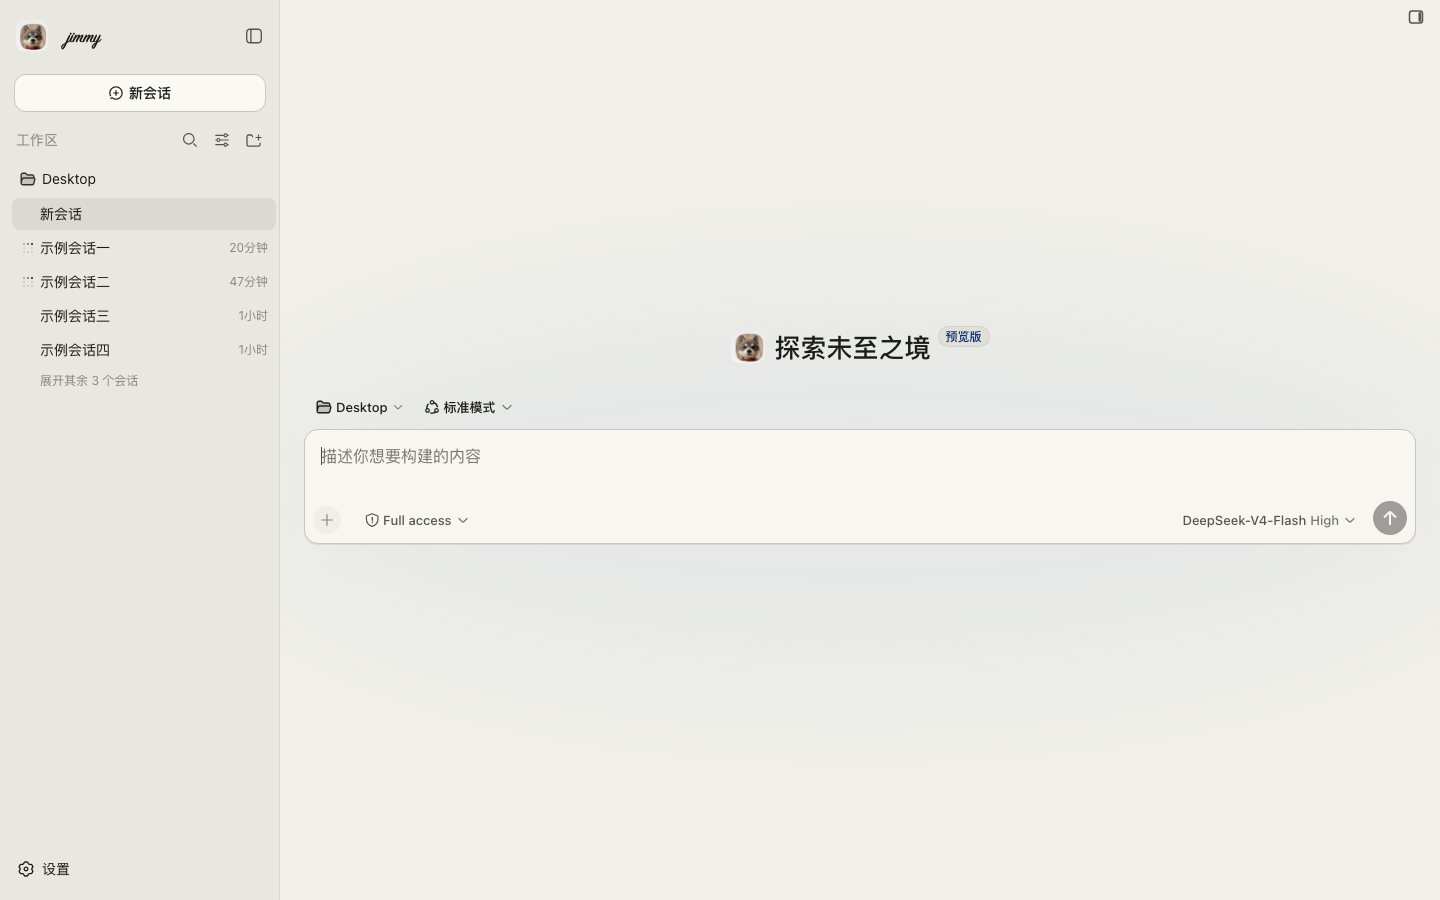
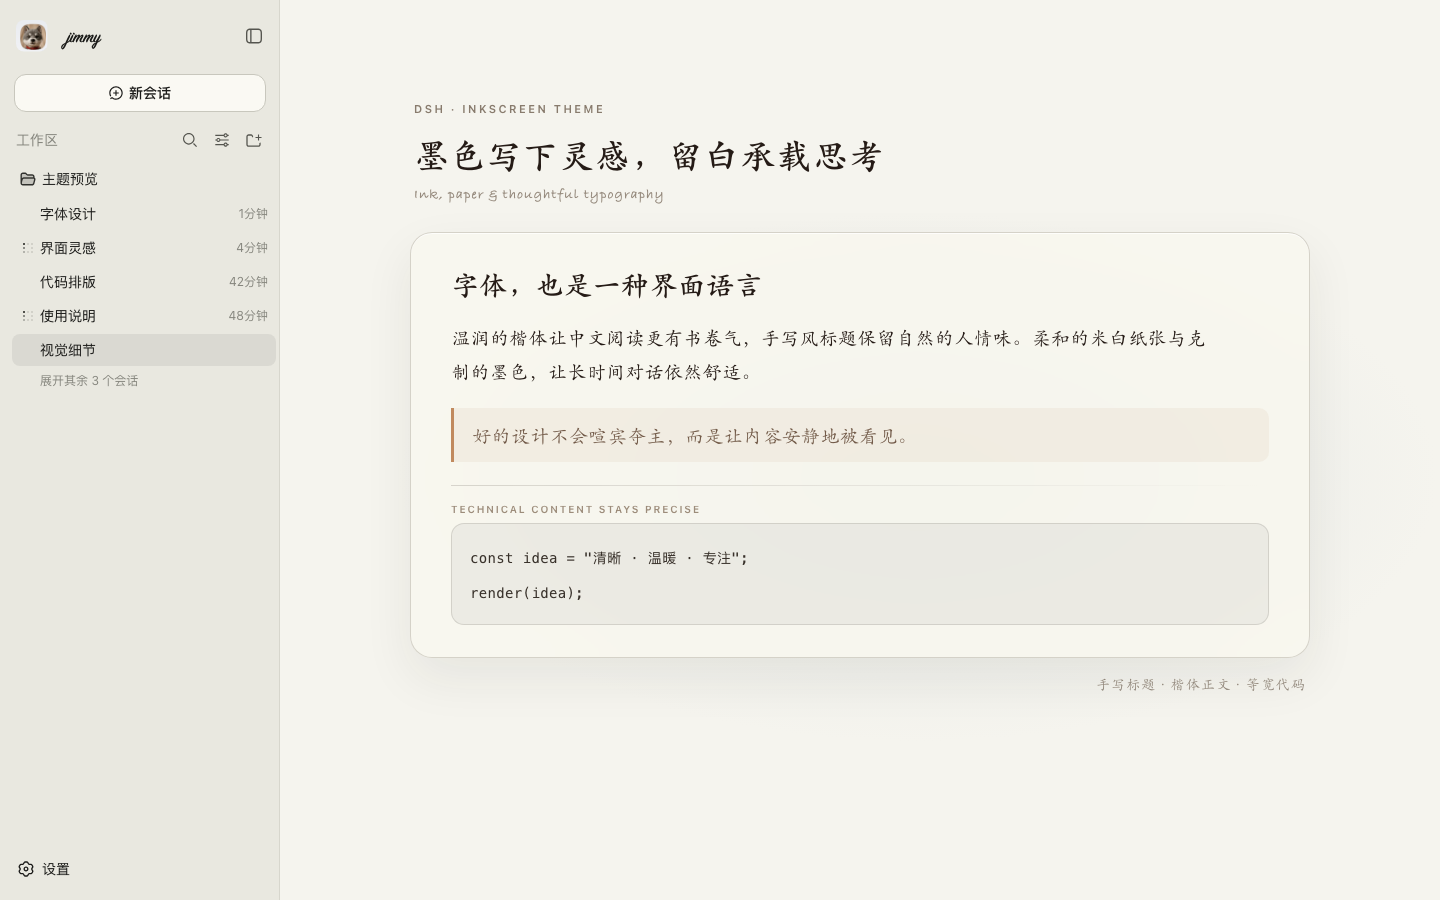
feat: showcase editorial typography

diff --git a/lib/client.js b/lib/client.js
@@ -85,6 +85,32 @@ textarea:focus, input:focus, select:focus {
   -webkit-backdrop-filter: blur(30px);
 }
 
+/* Editorial typography: readable Chinese Kai body text with a handwritten
+   character, while technical content stays crisp and monospaced. */
+[data-chat-flow-kind="assistant-step"] .Sxvs8a_root,
+[data-chat-flow-kind="assistant-step"] .Sxvs8a_body,
+[data-chat-flow-kind="assistant-step"] [class*="markdown"],
+[data-chat-flow-kind="assistant-step"] [class*="markdown"] :where(p, span, div, li, ul, ol, blockquote, strong, em, a) {
+  font-family: "Kaiti SC", "STKaiti", KaiTi, SignPainter-HouseScriptSemibold, SignPainter, "Brush Script MT", "Snell Roundhand", cursive !important;
+  font-size: 17px;
+  line-height: 1.76;
+  letter-spacing: .012em;
+}
+[data-chat-flow-kind="assistant-step"] [class*="markdown"] :where(h1, h2, h3, h4, h5, h6) {
+  font-family: SignPainter-HouseScriptSemibold, SignPainter, "Kaiti SC", "STKaiti", KaiTi, cursive !important;
+  line-height: 1.4;
+  letter-spacing: .01em;
+}
+[data-chat-flow-kind="user"] [class*="bubble"],
+[data-chat-flow-kind="user"] [class*="bubble"] :where(p, span, div, strong, em, a) {
+  font-family: SignPainter-HouseScriptSemibold, SignPainter, "Brush Script MT", "Snell Roundhand", "STKaiti", "Kaiti SC", KaiTi, cursive !important;
+  font-size: 17px;
+  line-height: 1.7;
+}
+[data-chat-flow-kind] :where(pre, pre *, code, kbd, samp) {
+  font-family: var(--ds-font-family-code, "SF Mono", "JetBrains Mono", "Fira Code", Consolas, Menlo, monospace) !important;
+}
+
 /* jimmy brand: uploaded dog photo + handwritten wordmark, no subtitle */
 .jimmy-brand {
   min-width: 0;

diff --git a/README.zh.md b/README.zh.md
@@ -2,7 +2,7 @@
 
 给 [DeepSeek Harness](https://github.com/deepseek-ai) 网页客户端（`dsh web`）用的墨水纸质感、苹果毛玻璃风主题。
 
-给聊天界面套上柔和的毛玻璃面板、暖色米白/墨色配色和等宽字体的代码显示，并把侧栏的品牌区换成手写风格的 **"jimmy"** 字样，配一个小狗头像。
+给聊天界面套上柔和的毛玻璃面板、暖色米白/墨色配色，并用温润的楷体呈现中文正文、手写字体呈现标题，同时保持代码的等宽排版。侧栏品牌区会换成手写风格的 **"jimmy"** 字样，配一个小狗头像。
 
 ![主题预览](./assets/screenshot.png)
 
@@ -19,6 +19,7 @@ CSS，热更新不够，需要完整重启才能生效）。
 ## 这个插件做了什么
 
 - 注入一段 `<style>`，定义墨水纸/毛玻璃风格的 CSS 变量，作用于侧栏、对话框和滚动条。
+- 中文对话正文采用易读的楷体编辑风格，标题更具手写感，并让代码保持清晰的等宽字体。
 - 监听侧栏的品牌区节点，把内容替换成手写风格字样（`Caveat` 网络字体，加载失败时
   退回系统自带的手写体），旁边配一个圆角小狗头像。
 

diff --git a/README.md b/README.md
@@ -3,8 +3,9 @@
 An ink-and-paper, Apple-glass theme for the [DeepSeek Harness](https://github.com/deepseek-ai) web client (`dsh web`).
 
 It restyles the chat shell with soft frosted-glass panels, warm cream/ink colors,
-and a monospace code voice, and it replaces the sidebar brand mark with a
-handwritten **"jimmy"** wordmark next to a small dog avatar.
+an editorial Kai/handwritten voice for conversation text, and crisp monospace
+code. It also replaces the sidebar brand mark with a handwritten **"jimmy"**
+wordmark next to a small dog avatar.
 
 ![theme preview](./assets/screenshot.png)
 
@@ -22,6 +23,8 @@ identity/CSS injected at boot, so a hot-reload is not enough).
 
 - Injects a `<style>` block with e-ink/Apple-glass CSS variables and rules for
   the sidebar, dialogs, and scrollbars.
+- Gives Chinese conversation text a readable Kai-style editorial voice,
+  expressive handwritten headings, and preserves monospace for code.
 - Watches the sidebar brand element and replaces its content with a
   handwritten wordmark (`Caveat` webfont, falling back to a system cursive
   font) plus a small rounded-square dog avatar image.
